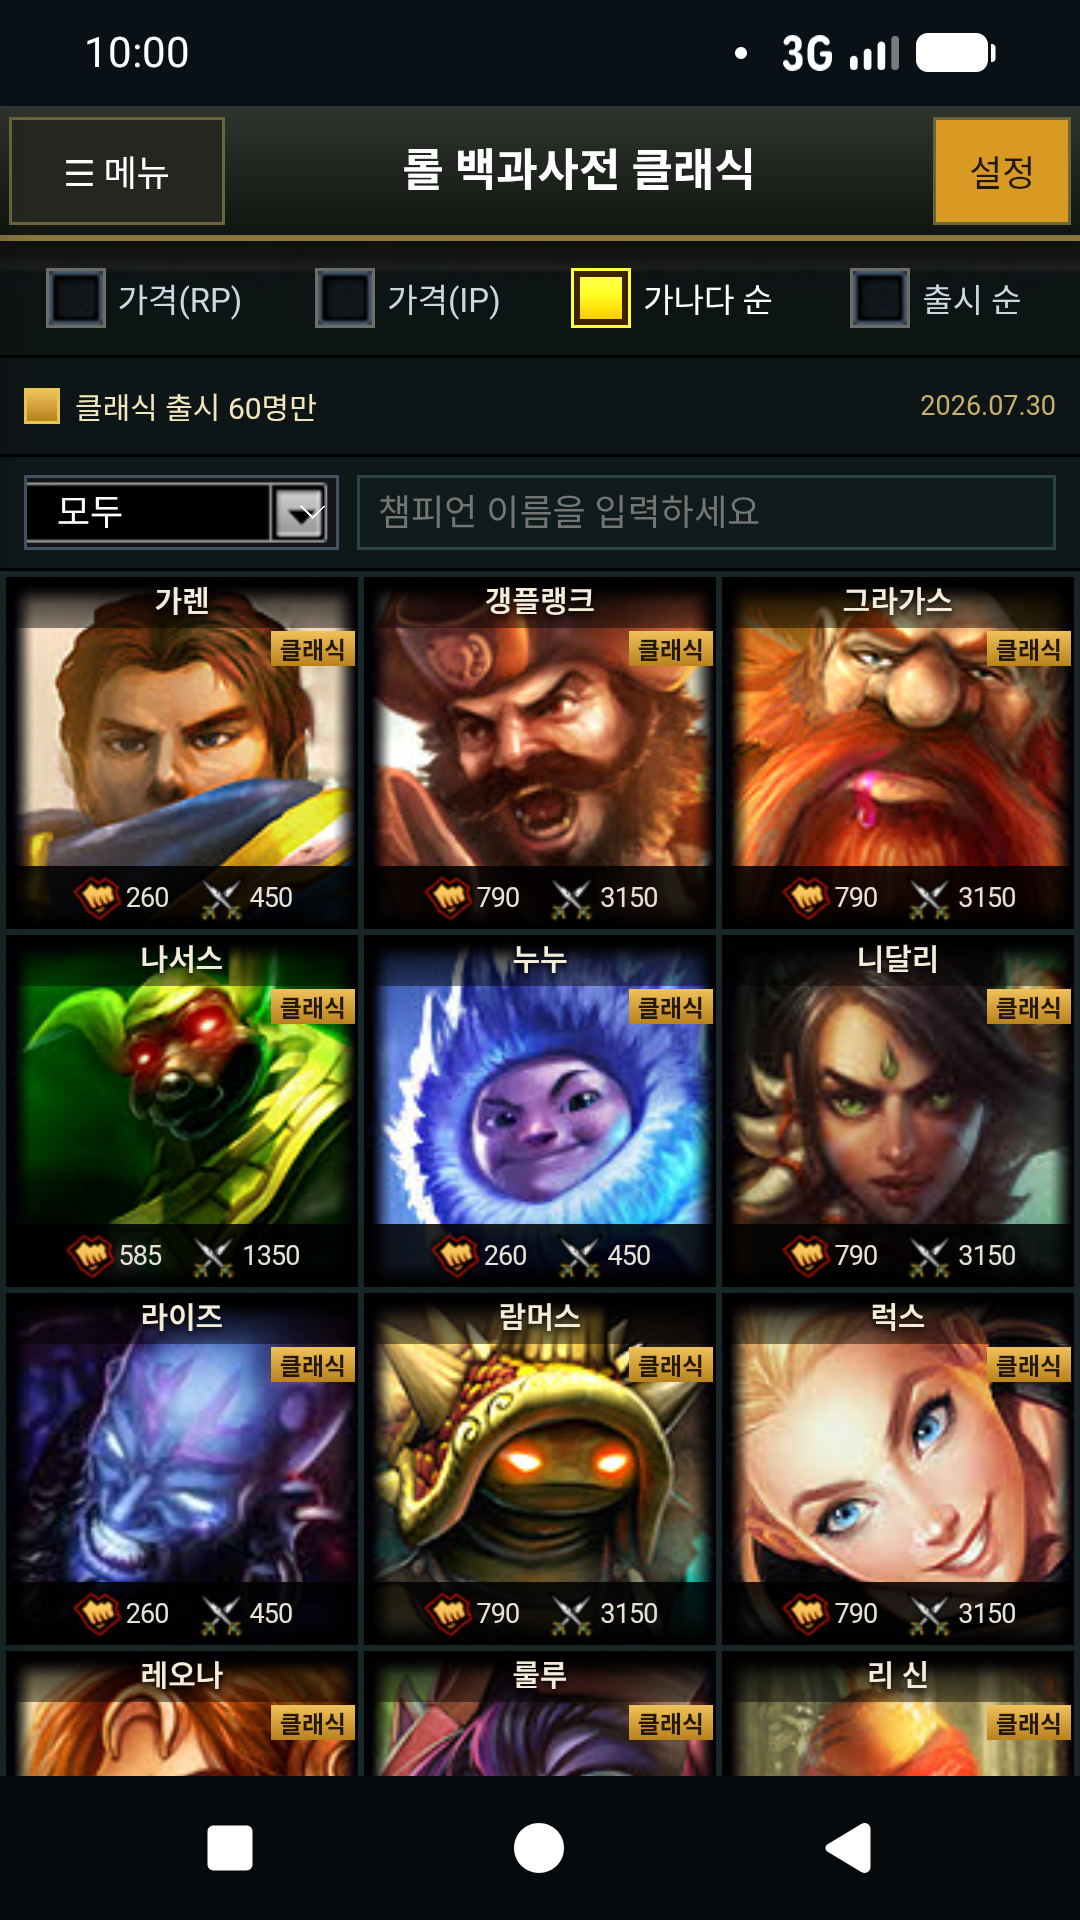
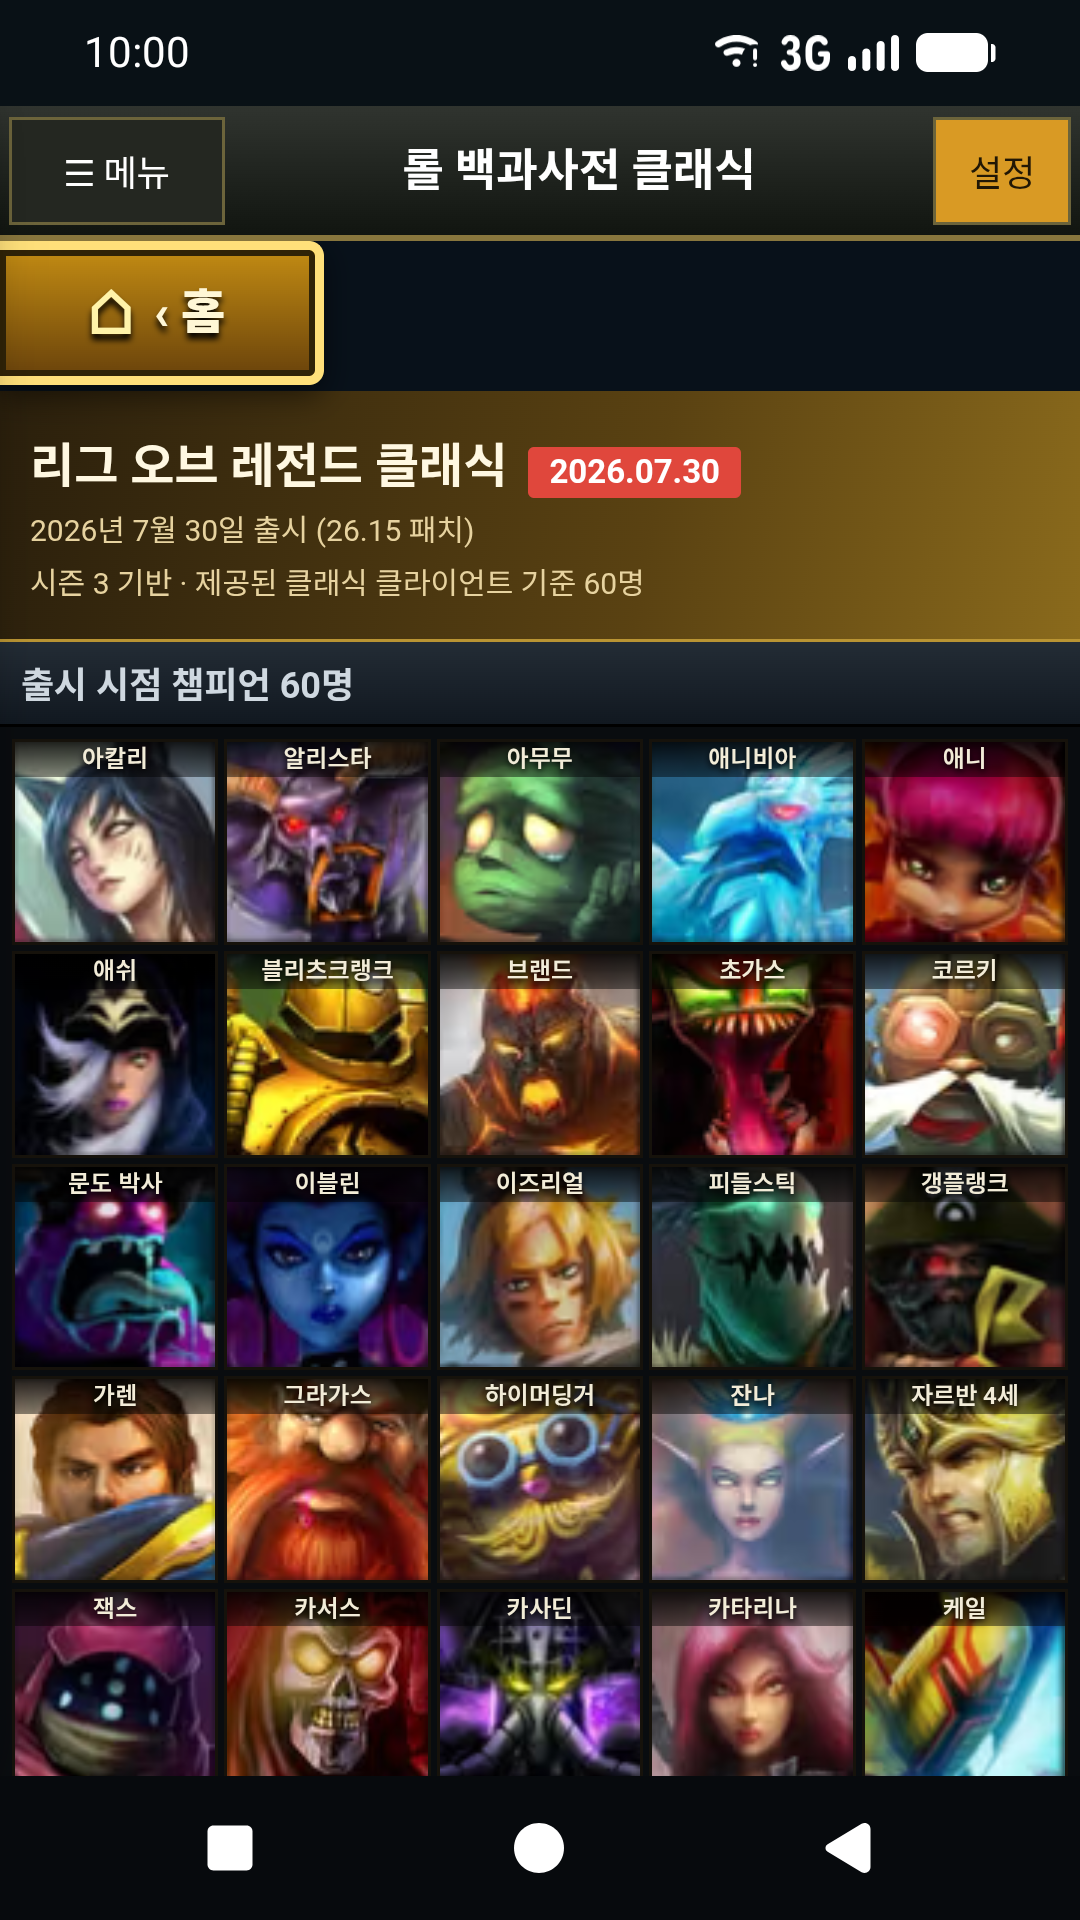
Publish final classic app review evidence

diff --git a/index.html b/index.html
@@ -66,16 +66,16 @@
 
       <div class="hero-visual" aria-label="최종 Android 앱 화면 미리보기">
         <div class="phone phone-back">
-          <img src="assets/phone-08-rune-page.png" alt="룬 페이지 구성 화면">
+          <img src="assets/phone-08-rune-page.png" alt="룬 보관함·30개 소켓·통계가 3열로 배치된 옛 룬 페이지">
         </div>
         <div class="phone phone-front">
-          <img src="assets/phone-01-home.png" alt="롤 백과사전 클래식 홈 화면">
+          <img src="assets/phone-01-home.png" alt="오프라인 통합 검색과 보존 소식 탭이 있는 컴팩트 홈 화면">
         </div>
       </div>
     </section>
 
     <section class="status-strip" aria-label="콘텐츠 수량">
-      <div><strong>60</strong><span>클래식 시작 챔피언</span></div>
+      <div><strong>60</strong><span>참조 화면 대조 챔피언</span></div>
       <div><strong>190</strong><span>옛 아이템</span></div>
       <div><strong>56</strong><span>클래식 특성</span></div>
       <div><strong>16</strong><span>소환사 주문</span></div>
@@ -89,31 +89,36 @@
           <h2>기억 속 정보를 실제로 탐색합니다.</h2>
         </div>
         <p>
-          단순한 소개 화면이 아니라 챔피언 상세, 아이템 조합식, 특성 투자,
-          룬 페이지 편집까지 동작하는 오프라인 참고 앱입니다.
+          컴팩트 홈의 기기 내 통합 검색과 보존 소식부터 챔피언 상세, 아이템 조합식,
+          특성 투자, 5개 룬 페이지 편집까지 동작하는 오프라인 참고 앱입니다.
         </p>
       </div>
 
       <div class="feature-grid">
         <article class="feature-card">
           <span class="feature-number">01</span>
-          <h3>챔피언 아카이브</h3>
-          <p>클래식 시작 챔피언 60명과 역사 아카이브 115명의 기본 정보·스킬·상세 페이지를 제공합니다.</p>
+          <h3>컴팩트 아카이브 홈</h3>
+          <p>챔피언·아이템·룬·용어를 기기 안에서 통합 검색하고, 보존 새소식·경기정보와 기기 내 커뮤니티를 탭으로 탐색합니다.</p>
         </article>
         <article class="feature-card">
           <span class="feature-number">02</span>
+          <h3>클래식 챔피언 60명</h3>
+          <p>클래식 클라이언트 참조 화면과 정확히 대조한 60명의 표시 순서·초상을 제공하고, 115명 역사 아카이브의 기본 정보·스킬·상세 페이지를 함께 보존합니다.</p>
+        </article>
+        <article class="feature-card">
+          <span class="feature-number">03</span>
           <h3>아이템과 조합식</h3>
           <p>190개 아이템의 분류·가격·필요 아이템·상위 조합을 연결하고, 좁은 화면에서도 두 영역을 독립적으로 스크롤합니다.</p>
         </article>
         <article class="feature-card">
-          <span class="feature-number">03</span>
+          <span class="feature-number">04</span>
           <h3>특성과 소환사 주문</h3>
           <p>56개 특성의 선행 조건과 30포인트 규칙을 반영하고, 클래식 소환사 주문 16개를 한곳에 정리했습니다.</p>
         </article>
         <article class="feature-card">
-          <span class="feature-number">04</span>
-          <h3>클래식 룬 페이지</h3>
-          <p>표식·인장·문양·정수 선택이 9/9/9/3 룬 페이지에 즉시 반영되며, 별도의 2013 룬 목록도 보존합니다.</p>
+          <span class="feature-number">05</span>
+          <h3>옛 룬 클라이언트</h3>
+          <p>룬 보관함·30개 소켓 보드·통계를 3열로 구성하고, 9/9/9/3 편성을 5개 룬 페이지에 기기 내부 저장·초기화할 수 있습니다.</p>
         </article>
       </div>
     </section>
@@ -121,25 +126,25 @@
     <section class="section quality-section" id="quality">
       <div class="section-heading">
         <div>
-          <p class="eyebrow">2026년 7월 28일 검증 스냅샷</p>
+          <p class="eyebrow">2026년 7월 29일 검증 스냅샷</p>
           <h2>출시 자료와 실제 앱을 함께 확인했습니다.</h2>
         </div>
         <p>
-          최종 캡처에 사용한 동일 빌드로 화면 이동, 모바일 레이아웃,
-          외부 링크 경계와 오프라인 동작을 자동·수동으로 점검했습니다.
+          최종 캡처에 사용한 동일 빌드로 컴팩트 홈·기기 내 검색, 정확한 60명 초상,
+          5페이지 룬 클라이언트, 화면 이동과 오프라인 경계를 자동·수동으로 점검했습니다.
         </p>
       </div>
 
       <p class="qa-note">
-        아래 수치는 2026년 7월 28일 기준 LOLFLIX 내부 검증 결과이며,
+        아래 수치는 2026년 7월 29일 기준 LOLFLIX 내부 검증 결과이며,
         Riot Games 또는 Google의 인증을 의미하지 않습니다.
       </p>
 
       <div class="qa-grid">
         <article class="qa-card">
-          <strong>37 / 37</strong>
+          <strong>39 / 39</strong>
           <span>Android 런타임 점검 통과</span>
-          <p>JavaScript 오류 없이 주요 동작과 앱 복귀 상태를 확인했습니다.</p>
+          <p>홈 검색·보존 소식, 60명 참조 초상, 30소켓·5페이지 룬 저장·초기화를 포함해 확인했습니다.</p>
         </article>
         <article class="qa-card">
           <strong>18 / 18</strong>
@@ -154,7 +159,7 @@
         <article class="qa-card">
           <strong>360dp</strong>
           <span>좁은 화면 회귀 점검</span>
-          <p>홈 버튼 겹침 없이 아이템의 좌·우 스크롤 영역을 분리했습니다.</p>
+          <p>컴팩트 홈·5열 챔피언 초상·3열 룬 클라이언트와 아이템 좌·우 스크롤을 점검했습니다.</p>
         </article>
       </div>
 
@@ -196,12 +201,12 @@
 
       <div class="gallery">
         <figure>
-          <img src="assets/phone-01-home.png" alt="앱의 열두 개 주요 메뉴가 보이는 홈 화면" loading="lazy">
-          <figcaption><strong>홈</strong><span>열두 개 클래식 메뉴</span></figcaption>
+          <img src="assets/phone-01-home.png" alt="오프라인 통합 검색과 보존 소식 탭이 있는 컴팩트 홈 화면" loading="lazy">
+          <figcaption><strong>컴팩트 홈</strong><span>기기 내 검색·소식·빠른 메뉴</span></figcaption>
         </figure>
         <figure>
-          <img src="assets/phone-02-champions.png" alt="클래식 챔피언 목록 화면" loading="lazy">
-          <figcaption><strong>챔피언</strong><span>클래식·역사 아카이브</span></figcaption>
+          <img src="assets/phone-02-champions.png" alt="클래식 클라이언트 참조 화면과 대조한 챔피언 60명 화면" loading="lazy">
+          <figcaption><strong>클래식 챔피언 60명</strong><span>참조 화면 대조 초상·순서</span></figcaption>
         </figure>
         <figure>
           <img src="assets/phone-03-champion-detail.png" alt="챔피언 상세 정보 화면" loading="lazy">
@@ -224,8 +229,8 @@
           <figcaption><strong>룬 목록</strong><span>종류·등급별 선택</span></figcaption>
         </figure>
         <figure>
-          <img src="assets/phone-08-rune-page.png" alt="선택한 룬이 반영된 옛 룬 페이지 화면" loading="lazy">
-          <figcaption><strong>옛 룬 페이지</strong><span>9/9/9/3 구성 저장</span></figcaption>
+          <img src="assets/phone-08-rune-page.png" alt="룬 보관함·30개 소켓·통계가 3열로 배치된 옛 룬 페이지 화면" loading="lazy">
+          <figcaption><strong>옛 룬 클라이언트</strong><span>3열 · 30소켓 · 5페이지 저장</span></figcaption>
         </figure>
       </div>
     </section>
@@ -332,6 +337,12 @@
         requires no account, contains no ads or analytics, requests no Internet
         permission, and stores user selections only on the device. Riot API and
         shared community features are roadmap items, not current services.
+      </p>
+      <p>
+        <strong>Working Android prototype.</strong>
+        <strong>No production API key.</strong>
+        Online accounts, Riot API integration, and shared community services are
+        <strong>Roadmap, not current functionality.</strong>
       </p>
       <div class="actions">
         <a class="button secondary" href="privacy.html#english">Privacy summary</a>

diff --git a/privacy.html b/privacy.html
@@ -121,20 +121,21 @@
 
     <section class="english-summary" id="english" lang="en">
       <p class="eyebrow">English summary</p>
-      <h2>Privacy summary</h2>
+      <h2>Privacy Policy summary</h2>
       <p>
-        The current Android app requires no account, requests no Internet
-        permission, contains no advertising or analytics SDKs, and does not
-        transmit personal information to a LOLFLIX server. Test posts,
-        preferences, mastery selections, builds, and rune-page selections remain
-        in app-local storage on the device.
+        Effective July 26, 2026. The current Android app does not require an account,
+        requests no Internet permission, contains no advertising or
+        analytics SDKs, and does not transmit personal information to a LOLFLIX
+        server. Test posts, preferences, mastery selections, builds, and
+        rune-page selections remain in app-local storage on the device.
       </p>
       <p>
         The static website has no LOLFLIX-operated account system, input form,
         advertising cookie, or analytics tracker. Hosting providers may process
         standard technical request data under their own policies. This policy
         will be updated before any Riot API, account, shared-community,
-        advertising, or analytics feature becomes available.
+        advertising, or analytics feature becomes available. These features are
+        not currently available.
       </p>
     </section>
   </main>

diff --git a/terms.html b/terms.html
@@ -121,13 +121,18 @@
 
     <section class="english-summary" id="english" lang="en">
       <p class="eyebrow">English summary</p>
-      <h2>Terms summary</h2>
+      <h2>Terms of Use summary</h2>
       <p>
         These terms cover the public information site and the current Android
         release candidate. The app is an independently developed, unofficial
         historical reference tool. It is not a Riot Games product, and the site
         does not state that Google Play publication, Riot approval, distribution
         authorization, or rights clearance is complete.
+      </p>
+      <p>
+        Materials are being reviewed for permitted use. Store distribution is
+        not currently offered while that review and the required authorization
+        remain incomplete.
       </p>
       <p>
         Historical information is provided for reference and may differ from

diff --git a/contact.html b/contact.html
@@ -80,12 +80,12 @@
 
     <section class="english-summary" id="english" lang="en">
       <p class="eyebrow">English summary</p>
-      <h2>Public contact route</h2>
+      <h2>Public issue tracker</h2>
       <p>
         Use the public project issue tracker for an initial product, policy,
-        rights, or security inquiry. Never post API keys, passwords, signing
-        material, business identifiers, payment information, private evidence,
-        or sensitive personal information in a public issue. Request a private
+        rights, or security inquiry. Public issues must contain no API keys, passwords, signing material,
+        business identifiers, payment information,
+        private evidence, or sensitive personal information. Request a private
         follow-up route instead.
       </p>
       <p>

diff --git a/styles.css b/styles.css
@@ -339,7 +339,7 @@ nav a:focus-visible {
 
 .feature-grid {
   display: grid;
-  grid-template-columns: repeat(4, 1fr);
+  grid-template-columns: repeat(auto-fit, minmax(13rem, 1fr));
   gap: 1rem;
 }
 

diff --git a/README.md b/README.md
@@ -24,9 +24,17 @@
 제공하지 않는 오프라인 참고 앱입니다. Android 인터넷 권한을 요청하지 않으며,
 사용자가 만든 테스트 데이터와 설정은 기기의 앱 전용 저장소에만 남습니다.
 
-2026년 7월 28일 기준 내부 Android 런타임 점검은 37/37, 화면 경로 점검은
-18/18을 통과했고, 최종 스크린샷 8장을 동일 빌드에서 캡처했습니다. 이 수치는
-LOLFLIX의 내부 검증 결과이며 Riot Games 또는 Google의 인증을 의미하지 않습니다.
+## 현재 구현
+
+- 컴팩트 홈에서 챔피언·아이템·룬·용어를 기기 안에서 통합 검색하고 보존 새소식·경기정보·기기 내 커뮤니티를 탐색
+- 클래식 클라이언트 참조 화면과 정확히 대조한 60명의 표시 순서·초상과 115명 역사 아카이브
+- 190개 아이템, 56개 특성, 16개 소환사 주문
+- 룬 보관함·30개 소켓·통계의 3열 옛 룬 클라이언트와 기기 내부에 저장되는 5개 룬 페이지
+
+2026년 7월 29일 기준 내부 Android 런타임 점검은 39/39, 화면 경로 점검은
+18/18을 통과했습니다. 컴팩트 홈·기기 내 검색, 정확한 60명 초상,
+30소켓·5페이지 룬 편성 검증을 포함합니다. 이 수치는 LOLFLIX의 내부 검증 결과이며
+Riot Games 또는 Google의 인증을 의미하지 않습니다.
 
 Google Play 조직 확인, 공개 지원 연락처, Play App Signing, 콘솔 선언,
 배포 권리 확인 및 심사 제출은 계정 소유자 또는 외부 권리자의 작업으로 남아 있습니다.
